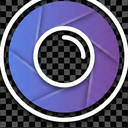
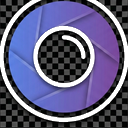
fix: bake white background into icon128.png
- Composited white background directly into the PNG
- Revert README to simple markdown image syntax

diff --git a/README.md b/README.md
@@ -6,9 +6,7 @@
 
 A lightweight Chrome extension for capturing screenshots and annotating with ease.
 
-<div align="center" style="background-color: white; padding: 20px; border-radius: 12px; display: inline-block;">
-  <img src="icons/icon128.png" alt="ZDFShot Logo" width="64" height="64">
-</div>
+![ZDFShot Logo](icons/icon128.png)
 
 ## Features
 
